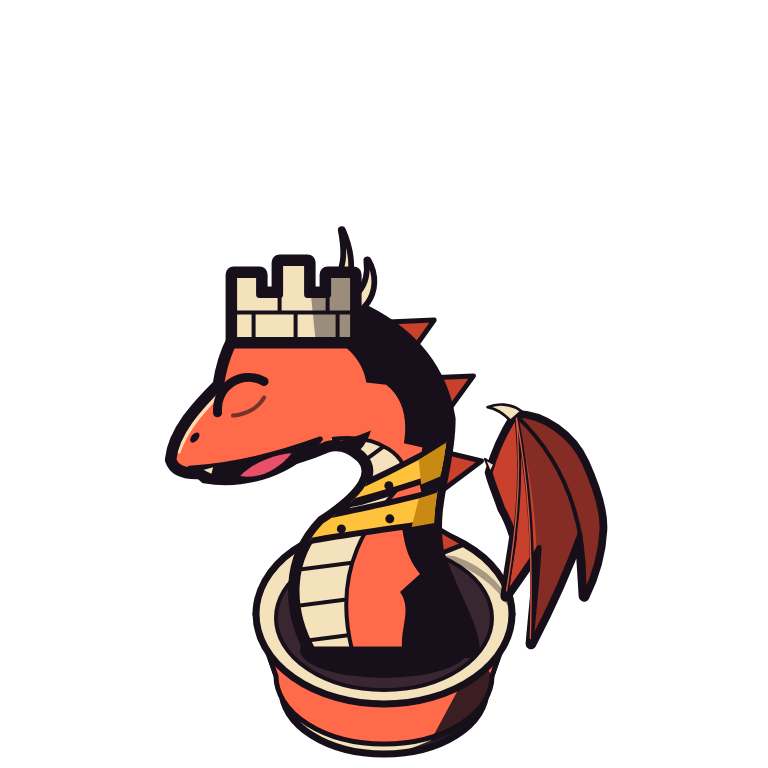
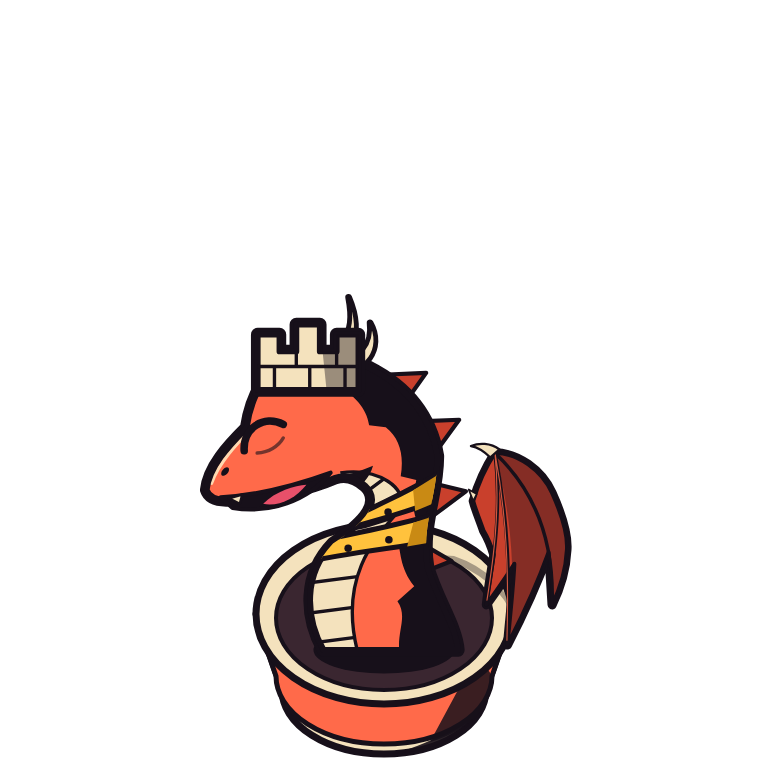
9.2.1: 龍 t4–t6 的生物縮小
Claude-Session: https://claude.ai/code/session_01YcRvipXLdSARSXJBNmnAqn

Changed region(s): [[0.2188, 0.2812, 0.8125, 0.875], [0.4375, 0.875, 0.5625, 0.9062]]

diff --git a/art-src/dragon/build.js b/art-src/dragon/build.js
@@ -210,6 +210,14 @@ const t5 = () => `${cup()}${plinth}${wing(0.75)}${(NECK_SPINES + head({ clipId: 
 const tiers = { 1: t1, 2: t2, 3: t3, 4: t4, 5: t5, 6: t6 };
 const svgOf = (body) => `<svg xmlns="http://www.w3.org/2000/svg" viewBox="0 0 768 768" width="768" height="768">${body}</svg>`;
 const out = path.join(__dirname, '..', 'out'); fs.mkdirSync(out, { recursive: true });
-for (const [ex, suf] of Object.entries(EXPRS)) { EXPR = ex; for (const [n, f] of Object.entries(tiers)) fs.writeFileSync(path.join(out, `dragon_t${n}${suf}.svg`), svgOf(f())); }
+// 大階級的杯子本身已經很大（遊戲依 R 放大整張圖），所以 t4–t6 的生物（杯子以上的部分）縮小，杯子不變（碰撞範圍不變）
+const FIG_SCALE = { 4: 0.84, 5: 0.74, 6: 0.66 };
+const build = (n, f) => {
+  const body = f(), c = cup(), k = FIG_SCALE[n];
+  if (!k) return body;
+  if (!body.startsWith(c)) throw new Error('t' + n + ' 必須以 cup() 開頭');
+  return c + `<g transform="translate(384 650) scale(${k}) translate(-384 -650)">${body.slice(c.length)}</g>`;
+};
+for (const [ex, suf] of Object.entries(EXPRS)) { EXPR = ex; for (const [n, f] of Object.entries(tiers)) fs.writeFileSync(path.join(out, `dragon_t${n}${suf}.svg`), svgOf(build(n, f))); }
 EXPR = 'idle';
 console.log('SVG →', out);

diff --git a/index.html b/index.html
@@ -83,7 +83,7 @@
 <div id="dbg"></div>
 <script>
 /* 診斷：任何錯誤都顯示在畫面底部（點一下關閉），方便在 iPhone 上截圖回報 */
-const APP_VERSION = 'v9.2.0';
+const APP_VERSION = 'v9.2.1';
 function reportError(e) {
   try { const el = document.getElementById('err'); el.textContent = '[' + APP_VERSION + '] ' + (e && e.message ? e.message : e) + (e && e.stack ? ' @ ' + String(e.stack).split('\n')[0] : ''); el.style.display = 'block'; } catch (x) {}
 }

diff --git a/sw.js b/sw.js
@@ -1,6 +1,6 @@
 // Sliding Cups service worker — 離線可玩。
 // 更新遊戲時用 node tools/release.js 同步更新版本（與 package.json 一致），舊快取會在新版啟用時清掉。
-const VERSION = 'sc-9.2.0';
+const VERSION = 'sc-9.2.1';
 const SHELL = ['./', './index.html', './manifest.webmanifest', './icons/icon-192.png', './icons/icon-512.png', './icons/apple-touch-icon.png'];
 
 self.addEventListener('install', e => {

diff --git a/CHANGELOG.md b/CHANGELOG.md
@@ -6,6 +6,9 @@
 - **major**：新模式、新核心機制（像道具系統、特殊桌面、障礙物）、物理手感大改。
 - 純文件 / 測試修改不發版。發版用 `node tools/release.js patch|minor|major -m "說明"`（見檔案開頭說明）。
 
+## 9.2.1 — 2026-11-22 （patch）
+- 龍 t4–t6 的生物縮小（杯子與碰撞不變），大杯子不再遮住其他杯子
+
 ## 9.2.0 — 2026-11-22 （minor）
 - 龍的正式造型：6 階 × 4 種表情（待機 / 合併開心 / 快速移動 / 眨眼），Mignola 風向量繪製；遊戲中每個杯子約 4 秒眨一次眼
 
